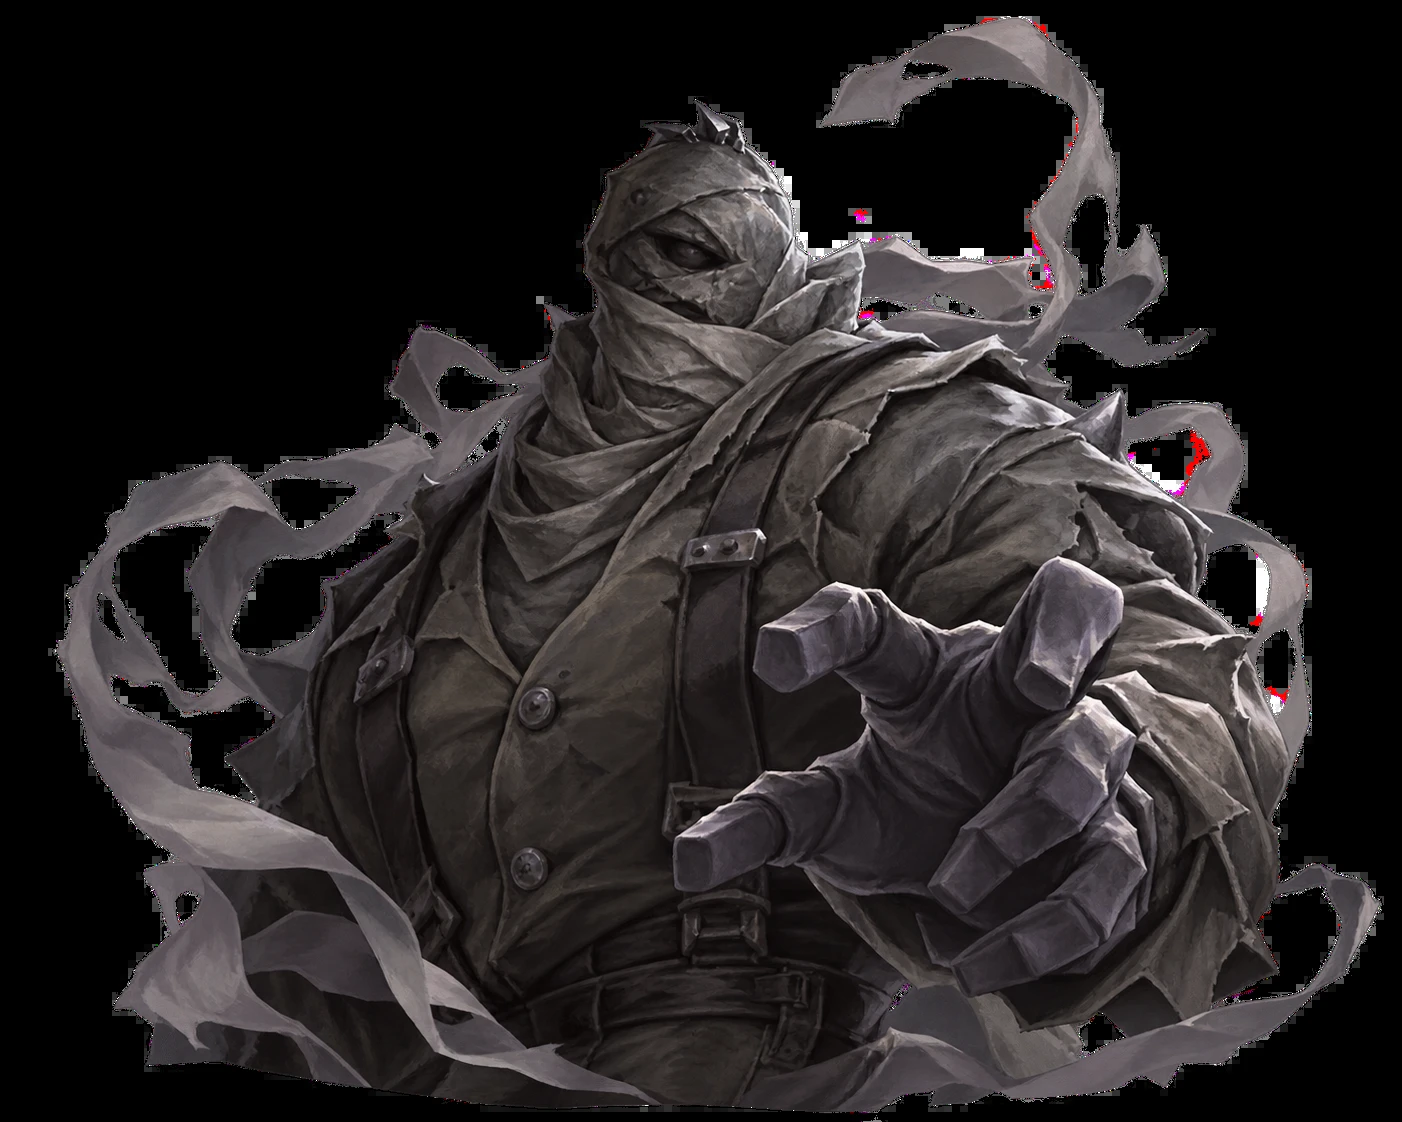
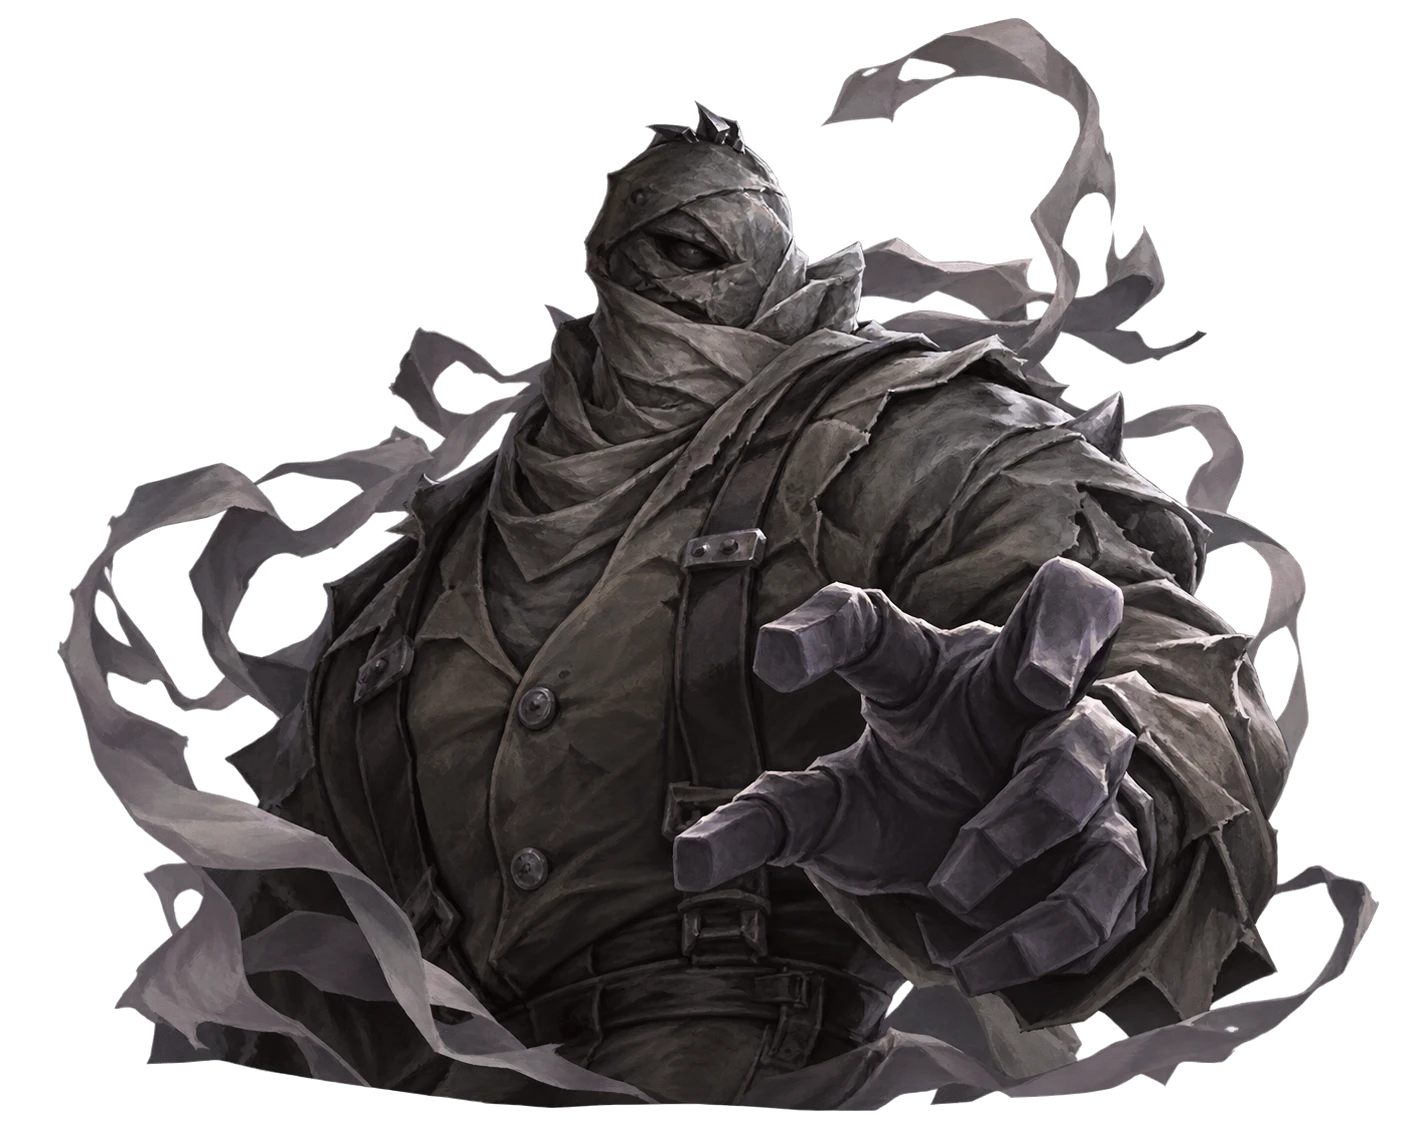
[FE] 공장장 일러스트 고침: 투명 배경이 검은색으로 굳어 있던 PNG(RGB)를 원본의 투명 배경으로 다시 만듦 — 가장자리 붉은 점(거의 투명한 얼룩) 지우고 몸 알파는 꽉 채움

diff --git a/Assets/UI/Resources/Illustrations/README.md b/Assets/UI/Resources/Illustrations/README.md
@@ -10,7 +10,7 @@
 | 안토니오 | Hunter_Antonio.png | |
 | 사냥터지기(노루) | Hunter_Gamekeeper.png | |
 | 하스터 | Hunter_Hastur.png | |
-| 공장장 | Hunter_HellEmber.png | ✅ (1402×1122, 흰 배경) |
+| 공장장 | Hunter_HellEmber.png | ✅ (1402×1122, 원본 투명 배경 그대로) |
 | 루키노 | Hunter_Luchino.png | |
 | 리퍼 | Hunter_Ripper.png | |
 | 광대 | Hunter_SmileyFace.png | |
